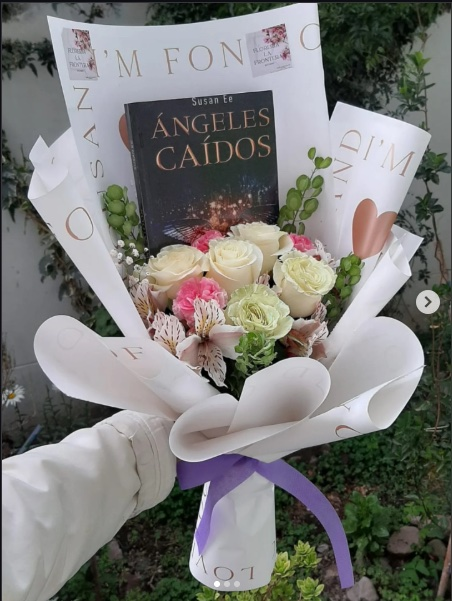
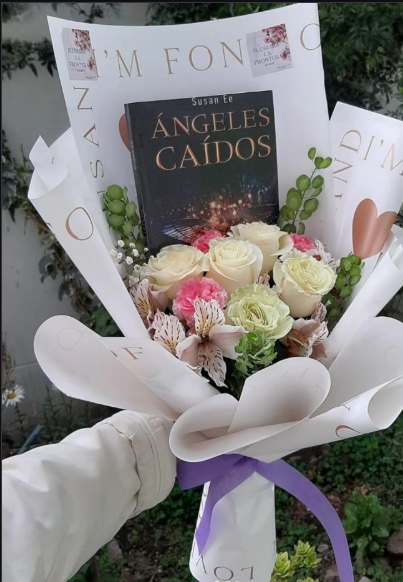
Actualiza foto del hero y agrega lightbox para ampliar imágenes del catálogo
- Reemplaza imagen del hero por foto real (ramo con libro)
- Limpia artefactos de captura (flecha de carrusel, cursor) en fotos del catálogo
- Agrega modal de imagen ampliada al hacer clic en cualquier foto de producto

diff --git a/index.html b/index.html
@@ -87,6 +87,11 @@
   #checkoutModal { transition: opacity 0.3s ease; }
   #checkoutModal .modal-panel { transition: transform 0.35s cubic-bezier(0.34, 1.56, 0.64, 1), opacity 0.3s ease; }
 
+  /* Lightbox transition */
+  #imageLightbox { transition: opacity 0.3s ease; }
+  #imageLightbox .lightbox-panel { transition: transform 0.35s cubic-bezier(0.34, 1.56, 0.64, 1), opacity 0.3s ease; }
+  .product-image-btn { cursor: zoom-in; }
+
   /* Filter pill active state handled via JS toggling classes */
   .filter-pill { transition: all 0.25s ease; }
 
@@ -271,8 +276,8 @@
     <div class="relative flex justify-center lg:justify-end animate-fade-in">
       <div class="relative w-full max-w-md">
         <div class="absolute inset-0 bg-blossom-light rounded-[2.5rem] rotate-3 scale-95"></div>
-        <img src="https://images.unsplash.com/photo-1520763185298-1b434c919102?q=80&w=1000&auto=format&fit=crop"
-             alt="Ramo elegante de tulipanes rosados, Florería La Frontera"
+        <img src="images/ramo-rosas-blancas-libro.jpg"
+             alt="Ramo de rosas y alstroemerias con libro de regalo, Florería La Frontera"
              class="relative rounded-[2.5rem] w-full h-[420px] sm:h-[480px] object-cover shadow-2xl">
 
         <!-- Floating badge: Freshness guarantee -->
@@ -427,6 +432,21 @@
     </div>
   </div>
 </footer>
+
+<!-- ================= IMAGE LIGHTBOX ================= -->
+<div id="imageLightbox" class="fixed inset-0 z-[70] hidden">
+  <div id="lightboxOverlay" class="absolute inset-0 bg-ink/90 backdrop-blur-sm"></div>
+  <button id="closeLightboxBtn" aria-label="Cerrar imagen"
+          class="absolute top-4 right-4 sm:top-6 sm:right-6 z-10 text-white/80 hover:text-white bg-white/10 hover:bg-white/20 rounded-full p-2.5 transition-colors">
+    <svg class="w-6 h-6" fill="none" viewBox="0 0 24 24" stroke="currentColor" stroke-width="2"><path stroke-linecap="round" stroke-linejoin="round" d="M6 18L18 6M6 6l12 12"/></svg>
+  </button>
+  <div class="relative h-full flex items-center justify-center p-4 sm:p-10">
+    <figure class="lightbox-panel opacity-0 scale-95 max-w-3xl w-full">
+      <img id="lightboxImg" src="" alt="" class="w-full max-h-[80vh] object-contain rounded-2xl shadow-2xl">
+      <figcaption id="lightboxCaption" class="text-center text-cream/90 font-medium mt-4 text-sm sm:text-base"></figcaption>
+    </figure>
+  </div>
+</div>
 
 <!-- ================= FLOATING WHATSAPP BUTTON ================= -->
 <a href="https://wa.me/message/2OMDBGCGOVGSI1?text=Hola%20Florer%C3%ADa%20La%20Frontera%2C%20quisiera%20informaci%C3%B3n%20sobre%20un%20arreglo%20floral"
@@ -629,10 +649,15 @@
       card.style.animationDelay = (i * 0.05) + "s";
 
       card.innerHTML = `
-        <div class="relative h-56 overflow-hidden">
+        <button type="button" data-product-id="${p.id}" class="product-image-btn group relative h-56 w-full overflow-hidden" aria-label="Ver imagen ampliada de ${p.name}">
           <img src="${p.img}" alt="${p.name}" class="w-full h-full object-cover" loading="lazy">
           ${p.tag ? `<span class="absolute top-3 left-3 bg-blossom-dark text-white text-xs font-bold px-3 py-1.5 rounded-full shadow">${p.tag}</span>` : ""}
-        </div>
+          <span class="absolute inset-0 bg-ink/0 group-hover:bg-ink/20 transition-colors flex items-center justify-center">
+            <span class="opacity-0 group-hover:opacity-100 transition-opacity bg-white/90 rounded-full p-2.5">
+              <svg class="w-5 h-5 text-ink" fill="none" viewBox="0 0 24 24" stroke="currentColor" stroke-width="2"><path stroke-linecap="round" stroke-linejoin="round" d="M21 21l-4.35-4.35M17 11a6 6 0 11-12 0 6 6 0 0112 0z"/><path stroke-linecap="round" stroke-linejoin="round" d="M11 8v6M8 11h6"/></svg>
+            </span>
+          </span>
+        </button>
         <div class="p-5 flex flex-col flex-1">
           <h3 class="font-serif text-lg font-bold text-ink mb-1">${p.name}</h3>
           <p class="text-sm text-ink/60 mb-4 flex-1">${p.description}</p>
@@ -649,6 +674,9 @@
 
     document.querySelectorAll(".personalize-btn").forEach((btn) => {
       btn.addEventListener("click", () => openModal(Number(btn.dataset.productId)));
+    });
+    document.querySelectorAll(".product-image-btn").forEach((btn) => {
+      btn.addEventListener("click", () => openLightbox(Number(btn.dataset.productId)));
     });
   }
 
@@ -768,6 +796,45 @@
   modalOverlay.addEventListener("click", closeModal);
   document.addEventListener("keydown", (e) => {
     if (e.key === "Escape" && !checkoutModal.classList.contains("hidden")) closeModal();
+  });
+
+  /* ---------------- Image Lightbox ---------------- */
+  const imageLightbox = document.getElementById("imageLightbox");
+  const lightboxPanel = imageLightbox.querySelector(".lightbox-panel");
+  const lightboxOverlay = document.getElementById("lightboxOverlay");
+  const lightboxImg = document.getElementById("lightboxImg");
+  const lightboxCaption = document.getElementById("lightboxCaption");
+  const closeLightboxBtn = document.getElementById("closeLightboxBtn");
+
+  function openLightbox(productId) {
+    const product = products.find((p) => p.id === productId);
+    if (!product) return;
+
+    lightboxImg.src = product.img;
+    lightboxImg.alt = product.name;
+    lightboxCaption.textContent = `${product.name} — ${product.description}`;
+
+    imageLightbox.classList.remove("hidden");
+    document.body.classList.add("overflow-hidden");
+    requestAnimationFrame(() => {
+      lightboxPanel.classList.remove("opacity-0", "scale-95");
+    });
+  }
+
+  function closeLightbox() {
+    lightboxPanel.classList.add("opacity-0", "scale-95");
+    setTimeout(() => {
+      imageLightbox.classList.add("hidden");
+      if (checkoutModal.classList.contains("hidden")) {
+        document.body.classList.remove("overflow-hidden");
+      }
+    }, 300);
+  }
+
+  closeLightboxBtn.addEventListener("click", closeLightbox);
+  lightboxOverlay.addEventListener("click", closeLightbox);
+  document.addEventListener("keydown", (e) => {
+    if (e.key === "Escape" && !imageLightbox.classList.contains("hidden")) closeLightbox();
   });
 
   dedicationMsg.addEventListener("input", () => {
